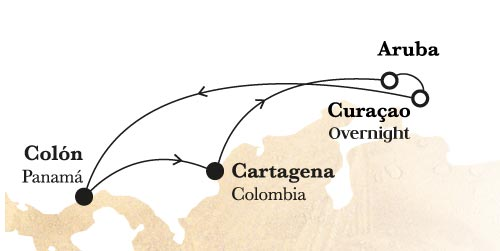
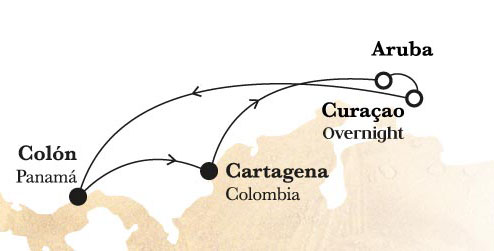
.

diff --git a/colon.html b/colon.html
@@ -80,7 +80,7 @@
             <ul class="box-description">
               <li>
                 <i><img src="images/SVG/ship_icon.svg" alt=""></i>
-                <span>Salida desde Colón</span>
+                <span>Salida desde<br>Colón/Panamá</span>
               </li>
               <li>
                 <i><img src="images/SVG/time_icon.svg" alt=""></i>
@@ -88,7 +88,7 @@
               </li>
               <li>
                 <i><img src="images/SVG/calendar_icon.svg" alt=""></i>
-                <span>30 de Noviembre <br>  al 7 de Diciembre</span>
+                <span>29 de Noviembre <br>  al 7 de Diciembre</span>
               </li>
             </ul>
           </div>
@@ -100,7 +100,7 @@
           <div class="cell small-12 medium-6 large-3">
             <div class="price-box">
               <div class="price-text-box">
-                 SALIENDO DESDE COLÓN <br> RESERVAS DESDE 
+                 SALIENDO DESDE COLÓN/PANAMÁ RESERVAS <br>DESDE 
                 <strong><small>$</small>269 USD*</strong>
                 <span>TODO INCLUIDO</span>
               </div>

diff --git a/css/app.css b/css/app.css
@@ -208,6 +208,8 @@ ul.button-top-bar li img{
 
 .map-travel img{
 	width: 100%;
+	height: 249px;
+    object-fit: cover;
 }
 
 
